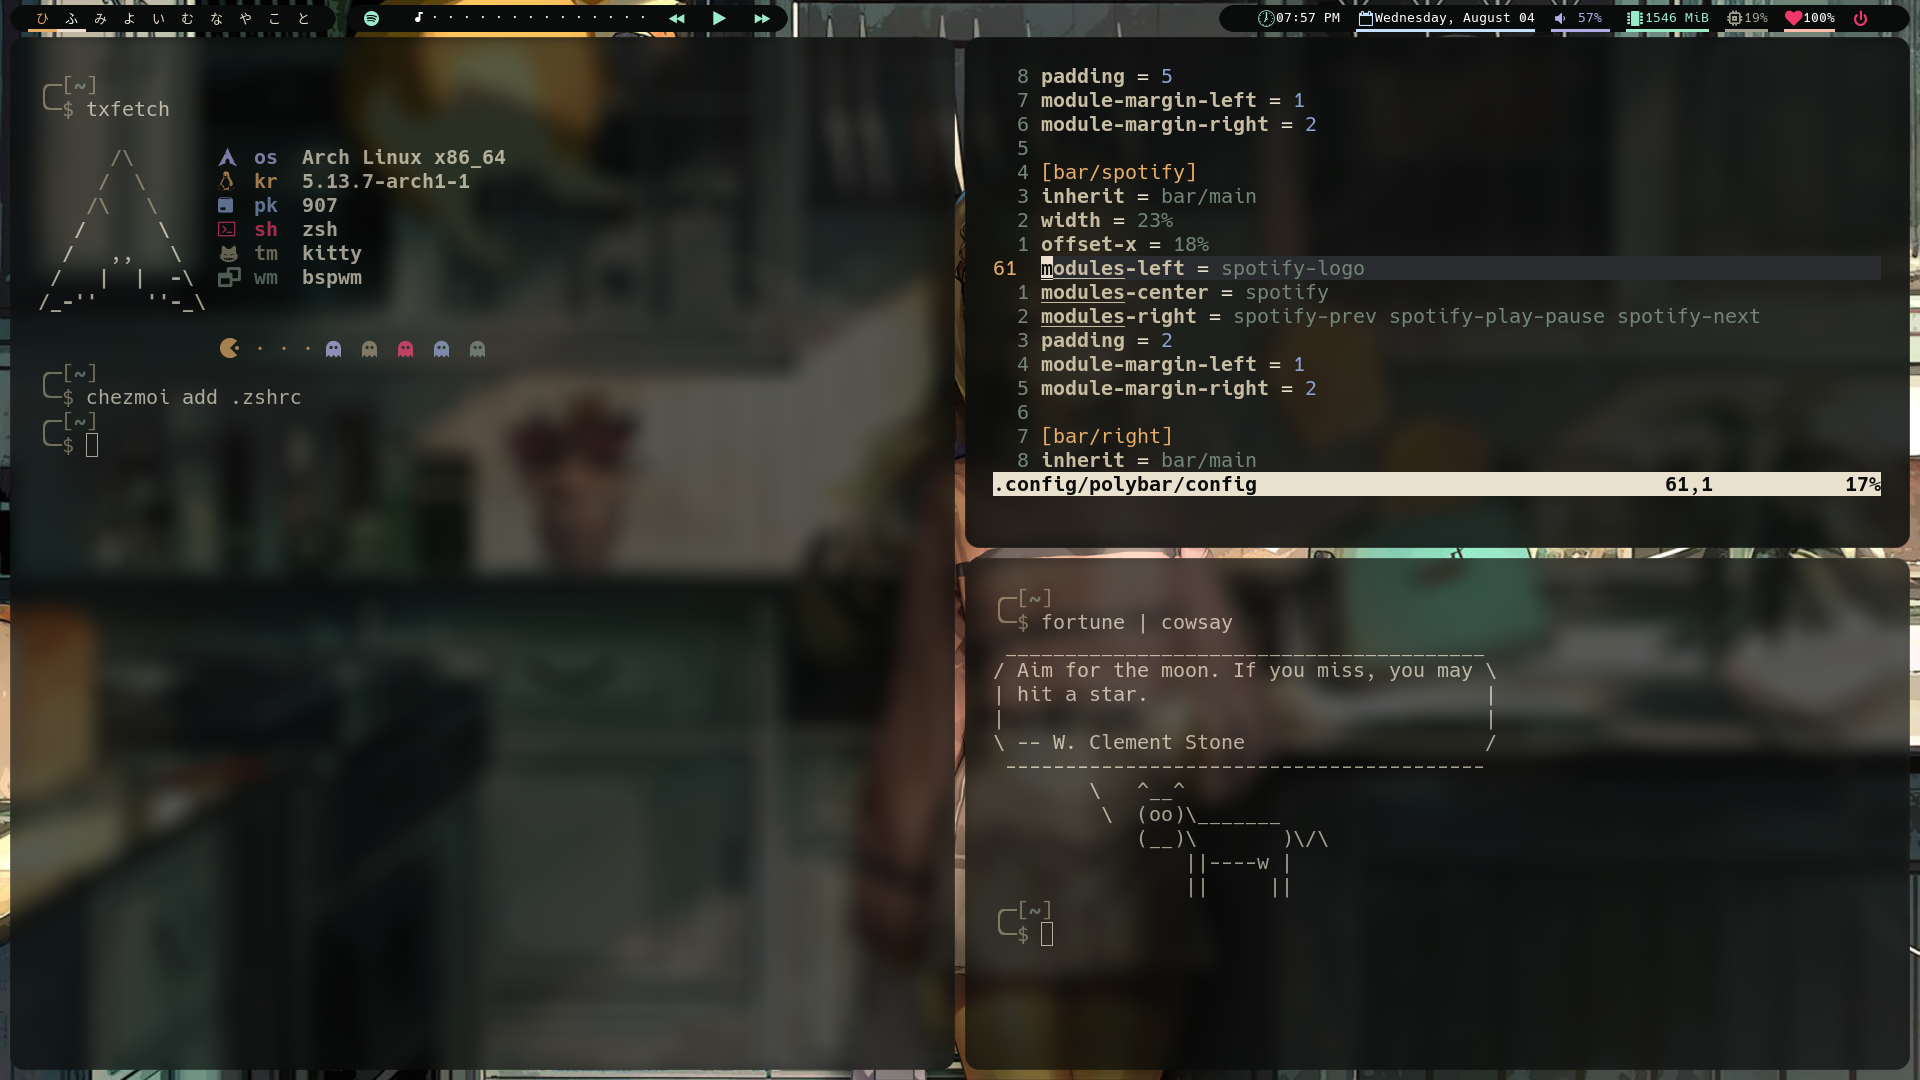
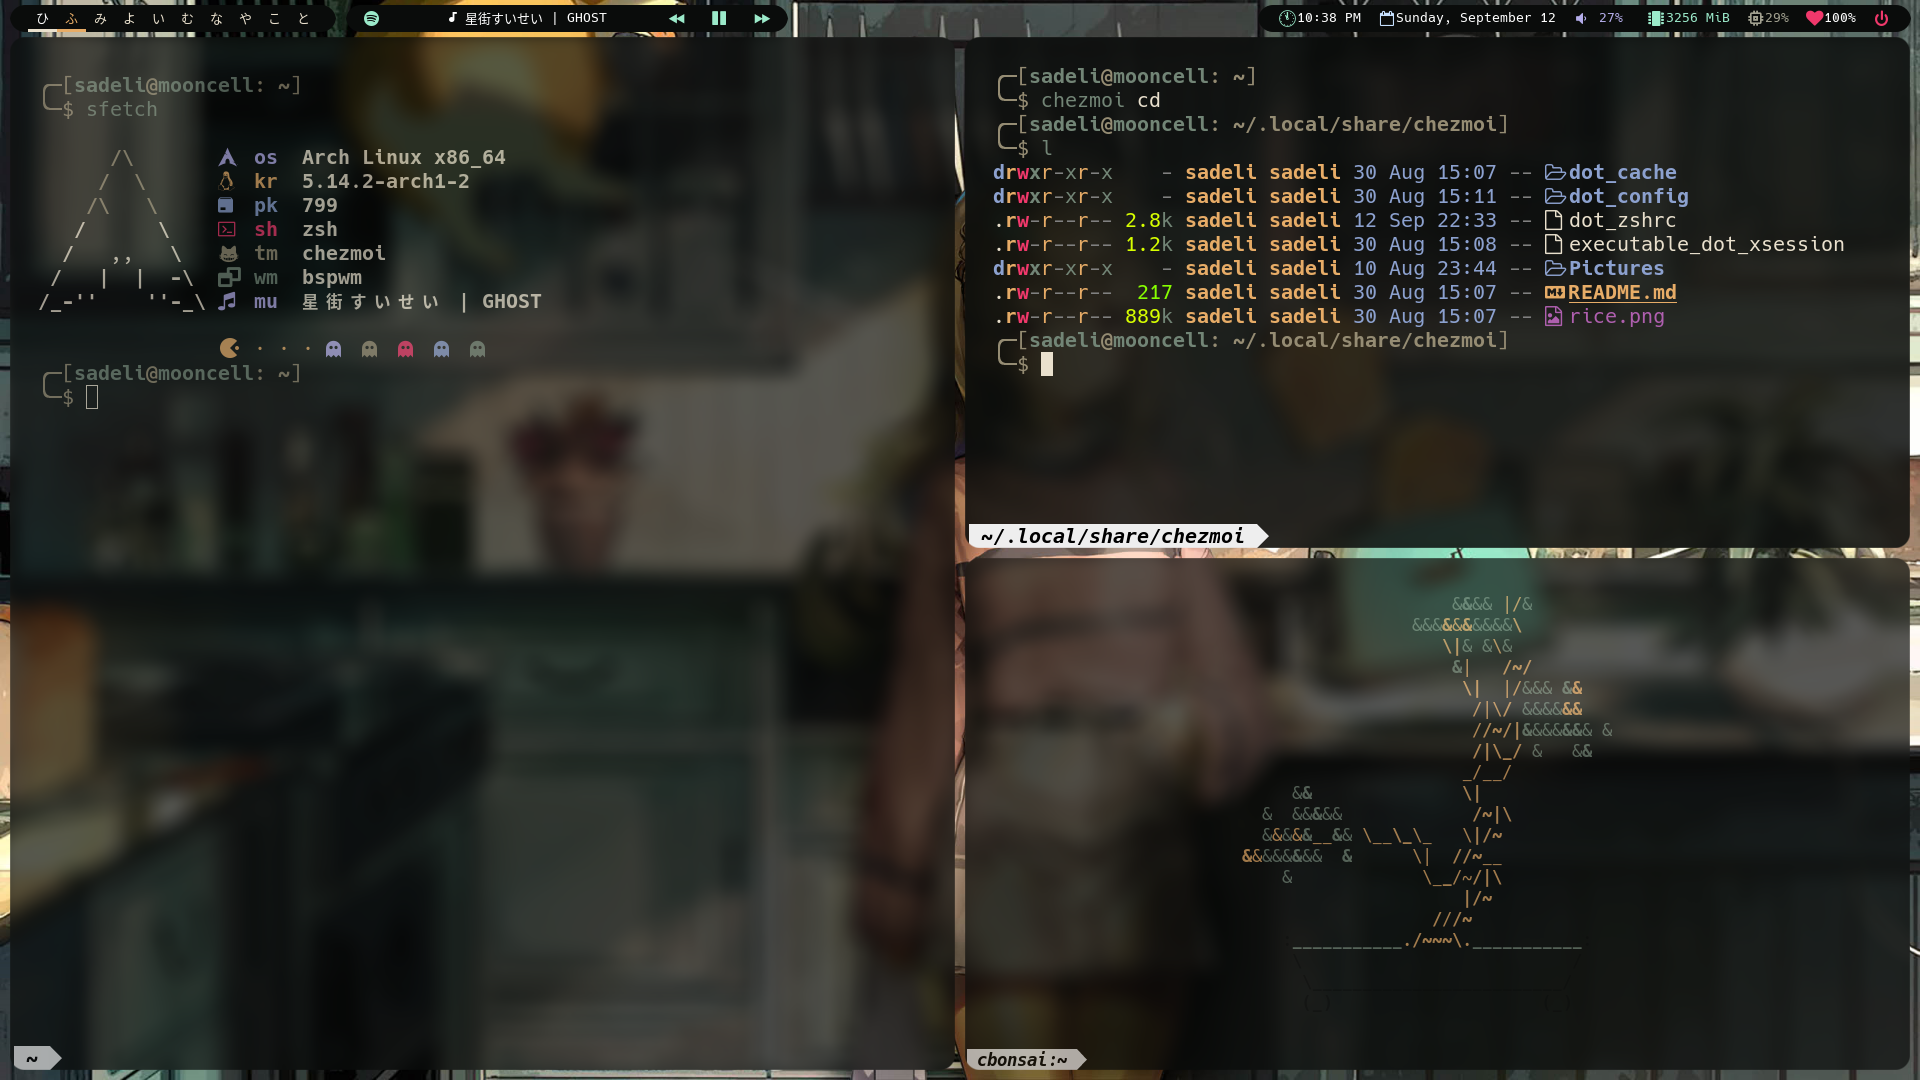
Update README

diff --git a/README.md b/README.md
@@ -5,3 +5,10 @@ My dotfiles, rices, neovim configs, polybar configs, etc. Basically my archive. 
 *screenshot*\
 Wallpaper found here: https://www.youtube.com/watch?v=ShkOCcbDsXY
 ![toast](rice.png)
+
+- **bar**: [polybar](https://github.com/polybar/polybar)
+- **launcher**: [rofi](https://github.com/adi1090x/rofi)
+- **compositor**: [picom-ibhagwan-git](https://github.com/ibhagwan/picom)
+- **discord theme**:[discocss](https://github.com/mlvzk/discocss)
+- **spotify theme**: [spicetify](https://github.com/khanhas/spicetify-cli)
+- **spotify bar**:a modified version of [polybar-spotify](https://github.com/PrayagS/polybar-spotify)
